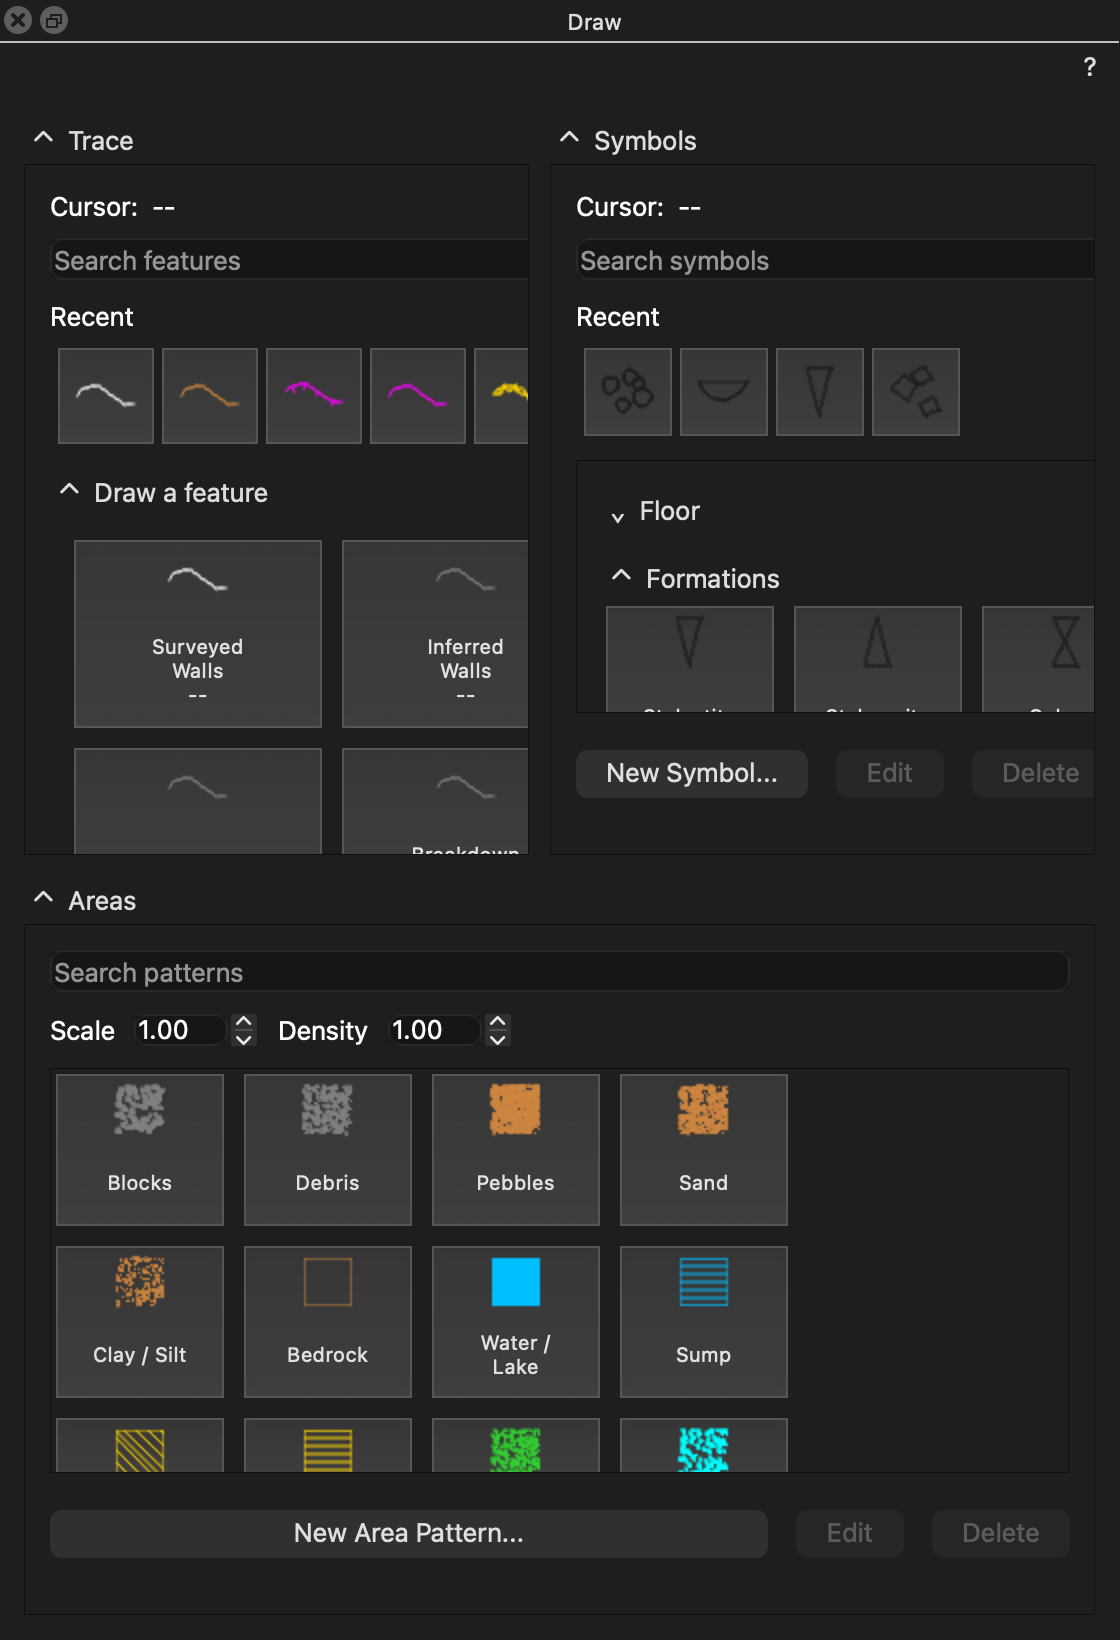
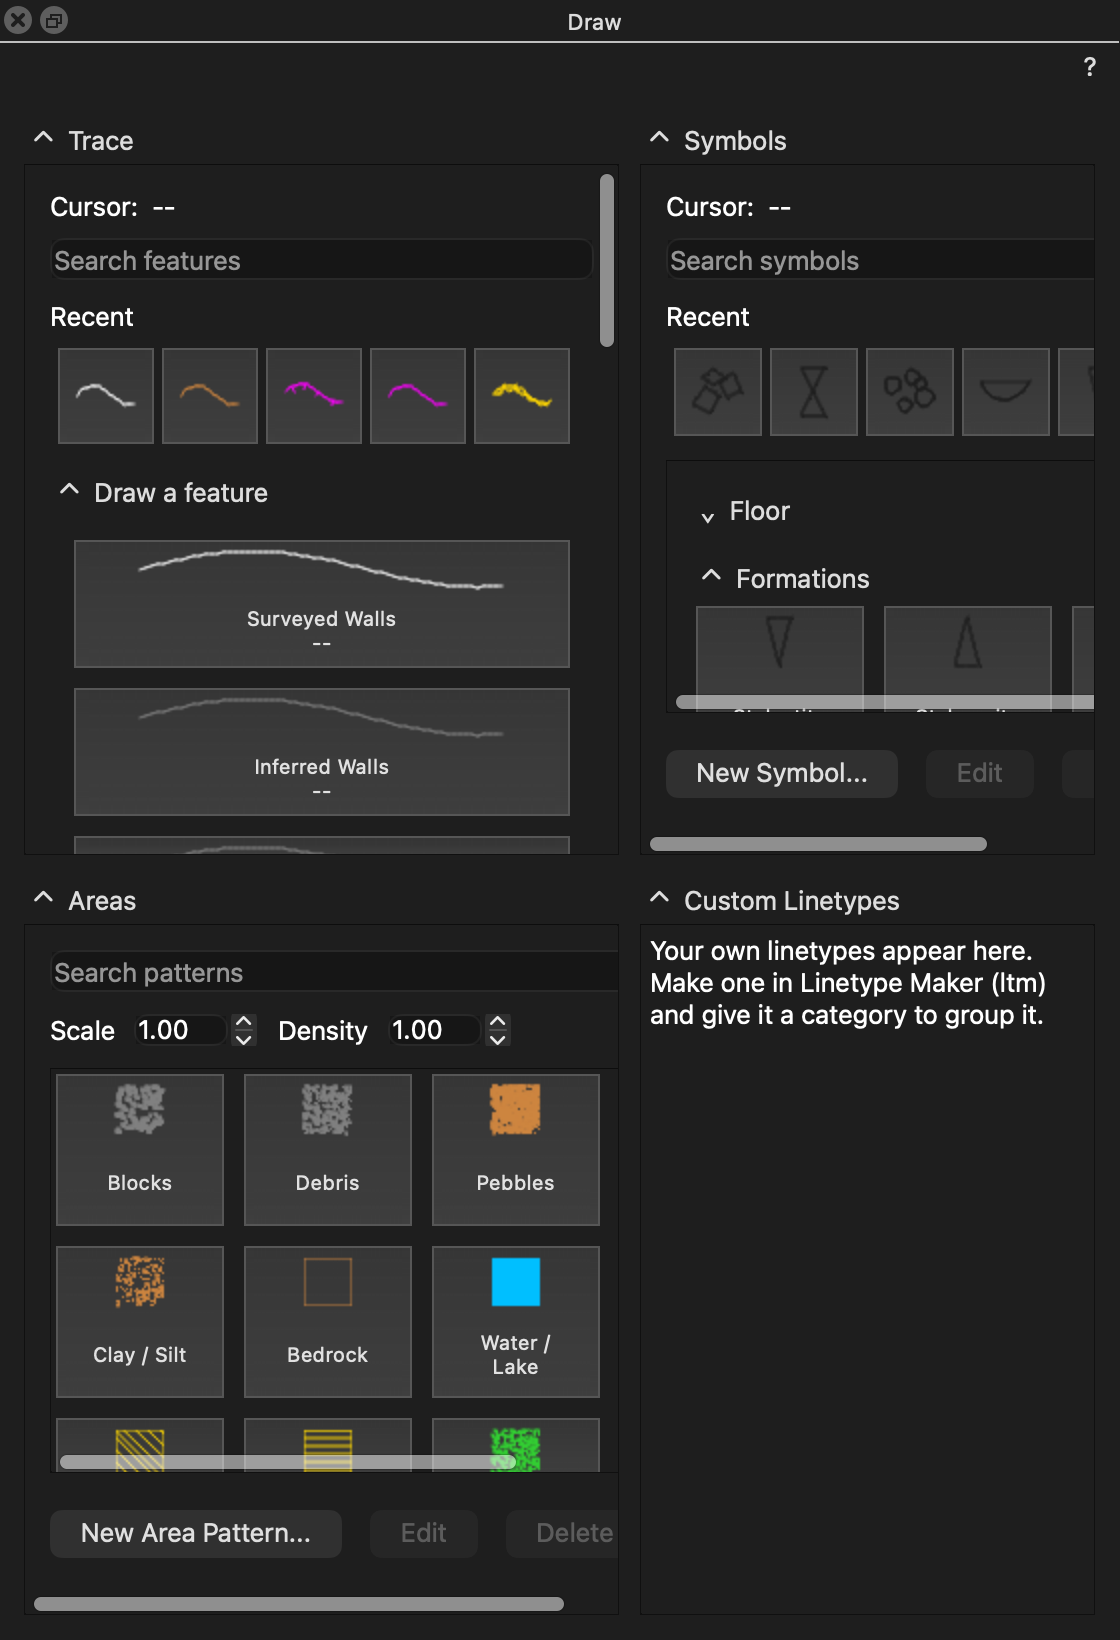
feat: Draw panel line buttons are a full-width list
Anything in the Draw panel that shows a line -- Trace's features, its
shaped lines, and Custom Linetypes -- is now one column of full-width
buttons, each with a wide strip of that line (200x24) and its name and
count under it. The Recent strip keeps its compact squares; Symbols and
Areas show symbols and fills, not lines, and are unchanged. Handbook
draw-panel.png retaken at the handbook size.

diff --git a/scripts/CaveSurvey/FeatureTrace/FeatureTrace.js b/scripts/CaveSurvey/FeatureTrace/FeatureTrace.js
@@ -367,13 +367,27 @@ FeatureTrace.showCursorFrame = function(frame, layer) {
 // APPENDED to the next free cell: the panel grows a row for every
 // GRID_COLUMNS features rather than for every one, and the shape stays
 // scannable.
-FeatureTrace.GRID_COLUMNS = 2;
+//
+// REVERSED, 2026-09-28 (Nathan): "if a button is showing off a line or
+// linetype, it needs to span the full width of that section ... almost
+// like a button list." A square tile showed a line as a thumbnail; a
+// line is read along its length. So the tiles are ONE column of full-
+// width buttons, each carrying a wide strip of its line
+// (LIST_ICON_W x LIST_ICON_H) with the name and count under it. The
+// Recent strip keeps its compact squares -- it is a row of shortcuts.
+FeatureTrace.GRID_COLUMNS = 1;
 FeatureTrace.CELL_W = 104;
 FeatureTrace.CELL_H = 56;
+// 200, not wider: a Draw section in the handbook-sized dock is ~260 px of
+// content, and a strip wider than that put a sideways scrollbar under
+// Trace (measured 2026-09-28).
+FeatureTrace.LIST_ICON_W = 200;
+FeatureTrace.LIST_ICON_H = 24;
+FeatureTrace.LIST_TILE_H = 64;
 /** Roughly how many characters fit on one line of a tile. Used only to
  *  break the label -- QPushButton renders "\n" but will not wrap for
  *  itself (probed 2026-08-29). */
-FeatureTrace.CELL_CHARS = 12;
+FeatureTrace.CELL_CHARS = 40;
 
 /**
  * A label broken over as many lines as it takes, greedily, on spaces.
@@ -570,10 +584,8 @@ FeatureTrace.buildGroup = function(w, parent, title, header, collapsed) {
     }
 
     try {
-        // Fixed-size tiles in a stretching grid would drift apart as the
-        // dock widens; the stretch goes to a column PAST the last one,
-        // so the tiles stay packed at the left in a steady grid.
-        inner.setColumnStretch(FeatureTrace.GRID_COLUMNS, 1);
+        // One column of list buttons: that column takes the width.
+        inner.setColumnStretch(0, 1);
     } catch (eStretch) {
     }
 
@@ -1040,20 +1052,22 @@ FeatureTrace.tileFor = function(row, checkable, compact) {
     var detail = [];
     if (isNull(row.style)) {
         detail.push(row.layer);
-        icon = FeatureTrace.iconForLayer(row.layer);
+        icon = FeatureTrace.iconForLayer(row.layer, compact !== true);
     } else {
         var spec = CsShapeLine.STYLES[row.style];
         detail.push(isNull(spec) ? "" : spec.decorLayer);
         detail.push(qsTr("Drag along the line, then point at the side " +
             "the ornament goes and click."));
-        icon = FeatureTrace.iconForStyle(row.style);
+        icon = FeatureTrace.iconForStyle(row.style, compact !== true);
     }
     button.toolTip = CsPanel.tipHtml(row.label, CsHelp.forFeature(row),
         detail);
     if (icon !== null) {
         try {
             button.icon = icon;
-            button.iconSize = new QSize(FeatureTrace.ICON, FeatureTrace.ICON);
+            button.iconSize = compact === true ?
+                new QSize(FeatureTrace.ICON, FeatureTrace.ICON) :
+                new QSize(FeatureTrace.LIST_ICON_W, FeatureTrace.LIST_ICON_H);
         } catch (eIcon) {
         }
     }
@@ -1068,10 +1082,10 @@ FeatureTrace.tileFor = function(row, checkable, compact) {
             button.setFixedSize(FeatureTrace.ICON + 14,
                 FeatureTrace.ICON + 14);
         } else {
-            // +38 rather than +24: the tile now carries a third line,
-            // the count, under a label that is often two lines already.
-            button.setFixedSize(FeatureTrace.CELL_W + 20,
-                FeatureTrace.CELL_H + 38);
+            // A LIST BUTTON: the full width of the section, a fixed
+            // height for the line strip plus name and count.
+            button.setFixedHeight(FeatureTrace.LIST_TILE_H);
+            button.setSizePolicy(QSizePolicy.Expanding, QSizePolicy.Fixed);
         }
     } catch (eSize) {
         // a bridge without setFixedSize gets tiles that stretch; the
@@ -1294,8 +1308,14 @@ FeatureTrace.ICON = 34;
  * colour comes from CsLayers.styleOf, the one place layer appearance is
  * resolved, so a tile cannot quietly disagree with the drawing.
  */
-FeatureTrace.iconForLayer = function(layerName) {
+FeatureTrace.iconForLayer = function(layerName, wide) {
     try {
+        if (wide === true) {
+            // a long, gently waving sample: a line read along its length
+            var strip = CsTileArt.sampleCurve(40, 60, 0.05);
+            return CsTileArt.iconOfClouds([strip], FeatureTrace.LIST_ICON_W,
+                CsTileArt.penForLayer(layerName), FeatureTrace.LIST_ICON_H);
+        }
         var curve = CsTileArt.sampleCurve(10, 20);
         return CsTileArt.iconOfClouds([curve], FeatureTrace.ICON,
             CsTileArt.penForLayer(layerName));
@@ -1313,7 +1333,7 @@ FeatureTrace.iconForLayer = function(layerName) {
  * what the tool does; this is the tool doing it, at tile size. Change
  * the hachure spacing tomorrow and every tile changes with it.
  */
-FeatureTrace.iconForStyle = function(styleKey) {
+FeatureTrace.iconForStyle = function(styleKey, wide) {
     try {
         var spec = CsShapeLine.STYLES[styleKey];
         if (isNull(spec)) {
@@ -1325,11 +1345,16 @@ FeatureTrace.iconForStyle = function(styleKey) {
         // spacing as two lonely hachures and a 2 ft rimstone as a
         // scribble; stretching the line instead of squeezing the
         // ornament keeps the tile an honest picture of the spacing.
-        var feet = Math.max(10, spec.spacingFeet * 4);
-        var pts = spec.close === true ?
-            CsTileArt.sampleRing(feet, 20) : CsTileArt.sampleCurve(feet, 20);
-        var side = spec.close === true ?
-            CsShapeLine.inwardSide(pts) : 1;
+        // A list strip shows ten repeats along a flat, open sample -- a
+        // pit's ring squeezed into a strip would be a speck, and its
+        // hachures read just as well along an open edge.
+        var ring = spec.close === true && wide !== true;
+        var feet = wide === true ? Math.max(30, spec.spacingFeet * 10) :
+            Math.max(10, spec.spacingFeet * 4);
+        var pts = ring ? CsTileArt.sampleRing(feet, 20) :
+            CsTileArt.sampleCurve(feet, wide === true ? 60 : 20,
+                wide === true ? 0.04 : undefined);
+        var side = ring ? CsShapeLine.inwardSide(pts) : 1;
         // Spacing and size are the STYLE's, scaled to the sample: at
         // true cave spacing a 10 ft sample carries three hachures,
         // which is exactly what the tile should show.
@@ -1346,7 +1371,7 @@ FeatureTrace.iconForStyle = function(styleKey) {
             jitterScaleFrac: spec.jitterScaleFrac || 0,
             rand: CsArea.rng(424242)
         } : undefined;
-        var prims = CsShapeLine.prims(pts, spec.close === true, spec,
+        var prims = CsShapeLine.prims(pts, ring, spec,
             side, spec.spacingFeet,
             isNull(spec.sizeFeet) ? 2 : spec.sizeFeet, extra);
         // prims answers { lines, polylines, glyphs }: a line is a PAIR
@@ -1357,7 +1382,7 @@ FeatureTrace.iconForStyle = function(styleKey) {
         // shapes, the same way CsTileArt.iconOfScatter paints an Area
         // Fill tile.
         var clouds = [pts.slice(0)];
-        if (spec.close === true) {
+        if (ring) {
             clouds[0].push(pts[0]);   // close the ring for painting
         }
         var i, j;
@@ -1411,8 +1436,11 @@ FeatureTrace.iconForStyle = function(styleKey) {
                 }
             }
         }
-        return CsTileArt.iconOfClouds(clouds, FeatureTrace.ICON,
-            CsTileArt.penForLayer(spec.decorLayer));
+        return wide === true ?
+            CsTileArt.iconOfClouds(clouds, FeatureTrace.LIST_ICON_W,
+                CsTileArt.penForLayer(spec.decorLayer), FeatureTrace.LIST_ICON_H) :
+            CsTileArt.iconOfClouds(clouds, FeatureTrace.ICON,
+                CsTileArt.penForLayer(spec.decorLayer));
     } catch (e) {
         return null;
     }
@@ -1443,7 +1471,7 @@ FeatureTrace.buildShapedGroup = function(w, parent, collapsed) {
         }
     }
     try {
-        inner.setColumnStretch(FeatureTrace.GRID_COLUMNS, 1);
+        inner.setColumnStretch(0, 1);
     } catch (eStretch) {
     }
     section.host.setLayout(inner);

diff --git a/scripts/CaveSurvey/Core/CsTileArt.js b/scripts/CaveSurvey/Core/CsTileArt.js
@@ -124,7 +124,25 @@ CsTileArt.fitOf = function(extent, size) {
 };
 
 /**
- * Paints clouds into a square QIcon.
+ * The scale and centre that fit `extent` into a w x h strip -- the
+ * wide picture on a Draw panel list button. Whichever side runs out
+ * first decides; a zero extent on one side is left to the other.
+ */
+CsTileArt.fitRect = function(extent, w, h) {
+    var ex = extent.maxX - extent.minX, ey = extent.maxY - extent.minY;
+    var fx = ex > 0 ? (w - 2 * CsTileArt.MARGIN) / ex : Infinity;
+    var fy = ey > 0 ? (h - 2 * CsTileArt.MARGIN) / ey : Infinity;
+    var factor = Math.min(fx, fy);
+    return {
+        factor: isFinite(factor) ? factor : 1.0,
+        cx: (extent.minX + extent.maxX) / 2,
+        cy: (extent.minY + extent.maxY) / 2
+    };
+};
+
+/**
+ * Paints clouds into a QIcon: square `size`, or `size` wide by `height`
+ * tall when a height is given (a list button's line strip).
  *
  * `pen` is optional: { color, width, dashed }. A dashed pen is how an
  * inferred wall reads as inferred in its own tile -- the tile carries
@@ -136,7 +154,7 @@ CsTileArt.fitOf = function(extent, size) {
  *
  * \return a QIcon, or null when this build's painter refuses.
  */
-CsTileArt.iconOfClouds = function(clouds, size, pen) {
+CsTileArt.iconOfClouds = function(clouds, size, pen, height) {
     if (isNull(clouds) || clouds.length === 0) {
         return null;
     }
@@ -144,9 +162,11 @@ CsTileArt.iconOfClouds = function(clouds, size, pen) {
     if (extent === null) {
         return null;
     }
-    var fit = CsTileArt.fitOf(extent, size);
+    var W = size, H = isNull(height) ? size : height;
+    var fit = isNull(height) ? CsTileArt.fitOf(extent, size) :
+        CsTileArt.fitRect(extent, W, H);
     try {
-        var pixmap = new QPixmap(size, size);
+        var pixmap = new QPixmap(W, H);
         pixmap.fill(new QColor(0, 0, 0, 0));
         var painter = new QPainter();
         painter.begin(pixmap);
@@ -169,10 +189,10 @@ CsTileArt.iconOfClouds = function(clouds, size, pen) {
             for (var j = 0; j < clouds[i].length - 1; j++) {
                 var a = clouds[i][j], b = clouds[i][j + 1];
                 painter.drawLine(
-                    size / 2 + (a.x - fit.cx) * fit.factor,
-                    size / 2 - (a.y - fit.cy) * fit.factor,
-                    size / 2 + (b.x - fit.cx) * fit.factor,
-                    size / 2 - (b.y - fit.cy) * fit.factor);
+                    W / 2 + (a.x - fit.cx) * fit.factor,
+                    H / 2 - (a.y - fit.cy) * fit.factor,
+                    W / 2 + (b.x - fit.cx) * fit.factor,
+                    H / 2 - (b.y - fit.cy) * fit.factor);
             }
         }
         painter.end();
@@ -532,7 +552,7 @@ CsTileArt.iconOfFill = function(entry, size, pen) {
  *
  * Pure.
  */
-CsTileArt.sampleCurve = function(feet, steps) {
+CsTileArt.sampleCurve = function(feet, steps, amplitude) {
     if (isNull(steps) || steps < 2) {
         steps = 24;
     }
@@ -542,7 +562,8 @@ CsTileArt.sampleCurve = function(feet, steps) {
         var t = i / steps;
         out.push({
             x: -half + t * feet,
-            y: Math.sin(t * Math.PI * 1.6) * (feet * 0.16)
+            y: Math.sin(t * Math.PI * 1.6) * (feet *
+                (isNull(amplitude) ? 0.16 : amplitude))
         });
     }
     return out;

diff --git a/tests/js_unit.js b/tests/js_unit.js
@@ -18877,8 +18877,10 @@ if (!IS_NODE) {
         ];
         ok(FeatureTrace.reflow(fakeGrid, fakeButtons, 0),
             "FeatureTrace.reflow: re-packs a filtered grid");
-        eqs(placed.join(" "), "a@0,0 c@0,1 d@1,0",
-            "FeatureTrace.reflow: the shown tiles fill the cells in order, " +
+        // One column since the tiles became a full-width button list
+        // (2026-09-28): the shown ones stack, no gap for the hidden.
+        eqs(placed.join(" "), "a@0,0 c@1,0 d@2,0",
+            "FeatureTrace.reflow: the shown tiles fill the rows in order, " +
                 "with no gap where the hidden one was");
 
         // A bridge that refuses removeWidget must not take the filter
@@ -26130,6 +26132,14 @@ eqs(CsSymbolStore.AREA_MARKER_TAGS.custom, "AreaCustom",
 
     // A single horizontal stroke has a zero vertical extent: scaling by
     // it would divide by zero and paint an empty tile.
+    var strip = CsTileArt.fitRect({ minX: 0, minY: 0, maxX: 40, maxY: 4 }, 240, 24);
+    near(strip.factor, (24 - 2 * CsTileArt.MARGIN) / 4, 1e-12,
+        "fitRect: a strip's height decides when the sample is tall for it");
+    var long = CsTileArt.fitRect({ minX: 0, minY: 0, maxX: 100, maxY: 1 }, 240, 24);
+    near(long.factor, (240 - 2 * CsTileArt.MARGIN) / 100, 1e-12,
+        "fitRect: the width decides for a long flat sample");
+    var line = CsTileArt.fitRect({ minX: 0, minY: 2, maxX: 10, maxY: 2 }, 240, 24);
+    ok(isFinite(line.factor) && line.factor > 0, "fitRect: a dead-flat line still scales");
     var flat = CsTileArt.fitOf({ minX: 0, minY: 5, maxX: 0, maxY: 5 }, 30);
     eqs(flat.factor, 1.0, "fitOf: a shape with no extent at all is not " +
         "scaled, rather than scaled by zero");

diff --git a/scripts/CaveSurvey/LinetypeMaker/LinetypeMaker.js b/scripts/CaveSurvey/LinetypeMaker/LinetypeMaker.js
@@ -1046,9 +1046,13 @@ LinetypeMaker.importFile = function() {
 // Trace, Symbols and Areas; LinetypeMaker.refresh rebuilds the tiles after
 // every save, delete and import, so the section always shows the library.
 
-LinetypeMaker.TILE_W = 120;
-LinetypeMaker.TILE_H = 22;
-LinetypeMaker.TILE_COLUMNS = 2;
+// A list, one full-width button per linetype -- the Draw panel's rule for
+// anything that shows a line (Nathan, 2026-09-28): the line is read along
+// its length, so it gets the section's width.
+LinetypeMaker.TILE_W = 200;
+LinetypeMaker.TILE_H = 24;
+LinetypeMaker.TILE_BUTTON_H = 52;
+LinetypeMaker.TILE_COLUMNS = 1;
 LinetypeMaker.NO_CATEGORY = "Uncategorized";
 
 /** The section's inner layout, once the Draw panel has built it. */
@@ -1108,6 +1112,7 @@ LinetypeMaker.rebuildTiles = function(models) {
             layout.addWidget(head, 0, 0);
             var grid = new QGridLayout();
             grid.setSpacing(2);
+            grid.setColumnStretch(0, 1);
             for (var k = 0; k < list.length; k++) {
                 grid.addWidget(LinetypeMaker.tile(list[k]),
                     Math.floor(k / LinetypeMaker.TILE_COLUMNS),
@@ -1129,6 +1134,8 @@ LinetypeMaker.tile = function(model) {
         b.setIcon(new QIcon(LinetypeMaker.previewPixmap(model,
             LinetypeMaker.TILE_W, LinetypeMaker.TILE_H)));
         b.setIconSize(new QSize(LinetypeMaker.TILE_W, LinetypeMaker.TILE_H));
+        b.setFixedHeight(LinetypeMaker.TILE_BUTTON_H);
+        b.setSizePolicy(QSizePolicy.Expanding, QSizePolicy.Fixed);
     } catch (eIcon) {
     }
     b.toolTip = (model.description ? model.description + "\n" : "") +

diff --git a/docs/handbook/pages/draw.html b/docs/handbook/pages/draw.html
@@ -1,6 +1,6 @@
 <h1>Draw</h1>
 <p>One panel for putting marks on the map: <b>Trace</b>, <b>Symbols</b>, <b>Areas</b> and <b>Custom Linetypes</b>. <code>draw</code></p>
-<p><img src="draw-panel.png" width="380"><br><i>Trace and Symbols sharing row one, Areas across row two.</i></p>
+<p><img src="draw-panel.png" width="380"><br><i>Trace and Symbols sharing row one, Areas and Custom Linetypes row two. Anything that draws a line is a full-width button showing a strip of that line.</i></p>
 <h2>When you reach for it</h2>
 <p>Whenever you are drawing. Cave drawing is one job done with one hand — a wall, then the ledge below it, then the gravel filling the floor between them — so the three used to be separate docks and you were choosing which <i>panel</i> to look at before choosing what to draw.</p>
 <h2>Steps</h2>
